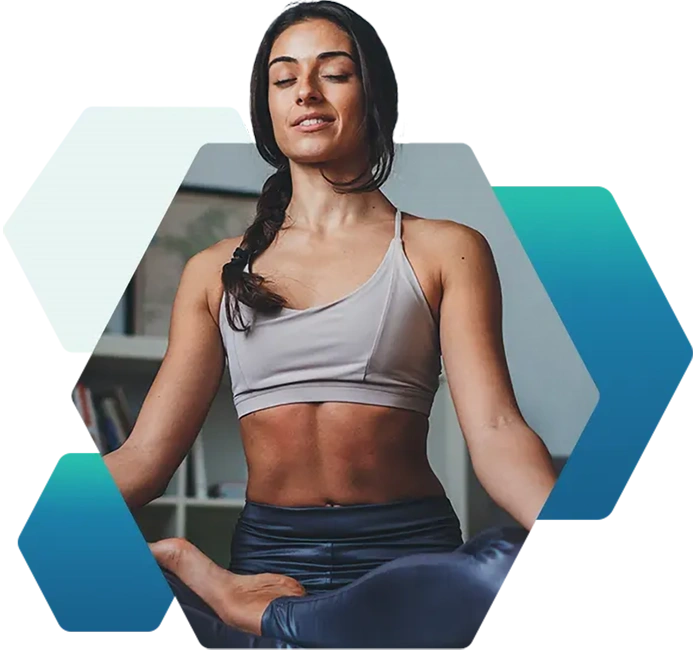
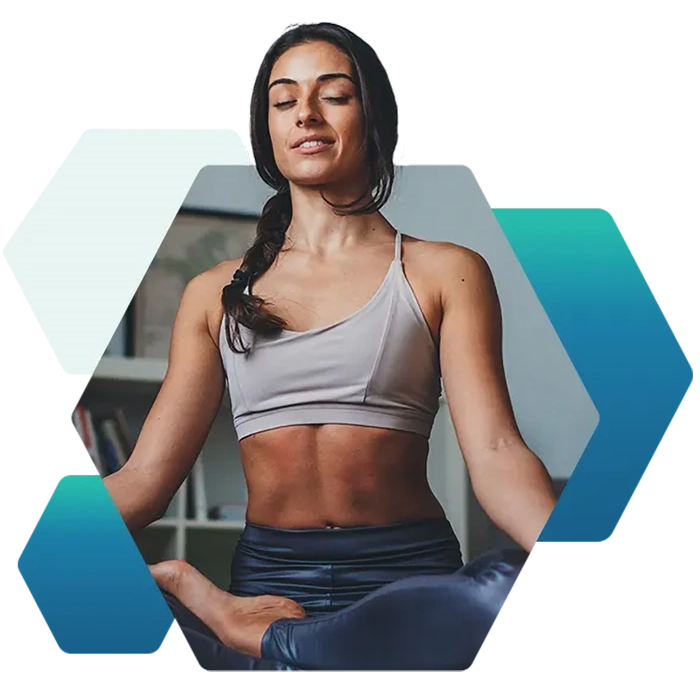
Create AlternatingSwitchbacks and add to index

diff --git a/src/components/AlternatingSwitchbacks/AlternatingSwitchbacks.tsx b/src/components/AlternatingSwitchbacks/AlternatingSwitchbacks.tsx
@@ -1,0 +1,83 @@
+import { WorksType } from 'data/data';
+import { FC } from 'react';
+
+// Quarks
+import Container from 'quarks/Container';
+import Flex from 'quarks/Flex';
+import Heading from 'quarks/Heading';
+import Image from 'quarks/Image';
+import Link from 'quarks/Link';
+import { BasicProps } from 'quarks/interpolations/basic';
+
+import useDarkMode from 'contexts/ThemeProvider';
+
+type AlternatingSwitchbacksProps = BasicProps & {
+  works: WorksType;
+};
+
+const AlternatingSwitchbacks: FC<AlternatingSwitchbacksProps> = ({ works, ...props }) => {
+  const [isDarkMode] = useDarkMode();
+
+  return (
+    <Flex flexDirection="column" gap="64px" {...props}>
+      {works.map((work, i) => {
+        const isEven = i % 2 === 0;
+
+        return (
+          <Link href={work.url} key={work.id}>
+            <Flex
+              justifyContent="flex-end"
+              alignItems="center"
+              flexDirection={isEven ? 'row-reverse' : 'row'}
+              position="relative"
+              cursor="pointer"
+              className="switchback"
+              css={`
+                :hover h4 {
+                  ${!isEven ? 'right: 30%' : 'left: 30%'};
+                  transform: scale(1.2);
+                }
+                :hover .image-wrapper {
+                  transform: rotate(${isEven ? '5deg' : '-5deg'});
+                }
+              `}
+            >
+              <Heading
+                as="h4"
+                textAlign="center"
+                textStyle="lg"
+                position="absolute"
+                left={isEven ? '20%' : '0'}
+                right={isEven ? '0' : '20%'}
+                transition="all 1s ease"
+                zIndex={2}
+                textShadow={isDarkMode ? '5px 5px 10px #110e2d' : undefined}
+                lg={{ textStyle: 'xxl' }}
+                after={{
+                  content: '',
+                  position: 'absolute',
+                  top: '150%',
+                  height: '5px',
+                  backgroundColor: 'purple-500',
+                  left: isEven ? '15%' : 0,
+                  right: isEven ? 0 : '15%',
+                  marginX: 'auto',
+                  width: '30%',
+                }}
+              >
+                {work.title}
+              </Heading>
+              <Container width="50%" className="image-wrapper" transition="all 1s ease">
+                <Image src={work.bannerImage.src} height={650} width={650} alt={work.bannerImage.alt} />
+              </Container>
+            </Flex>
+          </Link>
+        );
+      })}
+    </Flex>
+  );
+};
+
+export default AlternatingSwitchbacks;
+
+AlternatingSwitchbacks.defaultProps = {};

diff --git a/src/data/data.tsx b/src/data/data.tsx
@@ -44,11 +44,12 @@ export const works = [
   {
     id: 'bettermind',
     title: 'Better Mind',
+    url: 'https://www.justinwallace.dev/works/bettermind',
     subTitle: 'Counseling Collective',
     bannerImage: {
-      src: '/images/bettermind-1.webp',
+      src: '/images/bettermind/bettermind-1.webp',
       alt: 'Woman sitting in the lotus position',
-      height: 600,
+      height: 650,
       width: 650,
     },
     techStack: ['next', 'react', 'javascript', 'css'],
@@ -73,9 +74,9 @@ export const works = [
     ],
     gallery: [
       {
-        url: '/images/bettermind/bettermind-1.webp',
-        height: 650,
-        width: 700,
+        url: '/images/bettermind/bettermind-5.png',
+        height: 1204,
+        width: 1382,
       },
       {
         url: '/images/bettermind/bettermind-2.webp',
@@ -93,9 +94,10 @@ export const works = [
         width: 731,
       },
       {
-        url: '/images/bettermind/bettermind-5.png',
-        height: 1204,
-        width: 1382,
+        url: '/images/bettermind/bettermind-1.webp',
+
+        height: 700,
+        width: 700,
       },
       {
         url: '/images/bettermind/bettermind-6.png',
@@ -107,5 +109,14 @@ export const works = [
   {
     id: 'skilljumper',
     title: 'Skill Jumper',
+    url: 'https://www.justinwallace.dev/works/skilljumper',
+    bannerImage: {
+      src: '/images/skilljumper/skilljumper-1.webp',
+      alt: 'Justin Wallace as a cartoon jumping up some skill blocks',
+      height: 650,
+      width: 650,
+    },
   },
 ];
+
+export type WorksType = typeof works;

diff --git a/src/pages/index.tsx b/src/pages/index.tsx
@@ -1,26 +1,21 @@
+import { works } from 'data/data';
+
 // Assets
 import dots from 'assets/images/dots.webp';
 
 // Quarks
 import Container from 'quarks/Container';
 import { LargeCircle, SmallCircle } from 'quarks/DesignElements';
+import Heading from 'quarks/Heading';
 import Image from 'quarks/Image';
 
 // Components
+import AlternatingSwitchbacks from 'components/AlternatingSwitchbacks/AlternatingSwitchbacks';
 import Hero from 'components/Hero/Hero';
 
 const index = () => (
-  <>
-    <Container
-      as="main"
-      height="calc(90vh - 70px)"
-      contain="layout"
-      position="relative"
-      maxWidth="1440px"
-      marginX="auto"
-      paddingX={16}
-      lg={{ paddingX: 32 }}
-    >
+  <Container as="main" maxWidth="1440px" marginX="auto" paddingX={16} lg={{ paddingX: 32 }}>
+    <Container as="section" height="90vh" contain="layout" position="relative">
       <LargeCircle position="absolute" right="40%" bottom="50%" zIndex={-1} lg={{ right: '50%' }} />
       <Image
         src={dots}
@@ -36,6 +31,10 @@ const index = () => (
       <SmallCircle position="absolute" left="80%" top="10%" zIndex={-1} lg={{ left: '75%' }} />
       <Hero position="absolute" top="5%" left="2%" lg={{ top: '40%' }} />
     </Container>
-  </>
+    <Heading as="h3" textStyle="md" marginBottom={64} textAlign="center" lg={{ textStyle: 'lg' }}>
+      works
+    </Heading>
+    <AlternatingSwitchbacks works={works} />
+  </Container>
 );
 export default index;

diff --git a/src/quarks/styleProps/heading.ts b/src/quarks/styleProps/heading.ts
@@ -1,5 +1,6 @@
 import { css } from 'styled-components';
 
+import { GradientStyles, gradient } from 'atoms/colors/colors';
 import { font } from 'atoms/typography/typography';
 
 import typography from 'theme/typography';
@@ -26,6 +27,11 @@ const headingCSS = {
     line-height: ${typography.typography[value].lineHeight};
     letter-spacing: ${typography.typography[value].letterSpacing};
     font-weight: ${typography.typography[value].fontWeight};
+  `,
+  gradient: (value: GradientStyles) => css`
+    background: ${gradient[value]};
+    -webkit-background-clip: text;
+    -webkit-text-fill-color: transparent;
   `,
 };
 

diff --git a/src/components/AlternatingSwitchbacks/storybook/AlternatingSwitchbacks.stories.tsx b/src/components/AlternatingSwitchbacks/storybook/AlternatingSwitchbacks.stories.tsx
@@ -1,0 +1,13 @@
+import { ComponentStory } from '@storybook/react';
+
+import AlternatingSwitchbacks from '../AlternatingSwitchbacks';
+
+const Template: ComponentStory<typeof AlternatingSwitchbacks> = args => <AlternatingSwitchbacks {...args} />;
+
+export const AlternatingSwitchbacksStory = Template.bind({});
+AlternatingSwitchbacksStory.parameters = {
+  controls: {
+    include: [],
+  },
+};
+AlternatingSwitchbacksStory.args = {};

diff --git a/src/pages/_document.tsx b/src/pages/_document.tsx
@@ -11,7 +11,6 @@ class MyDocument extends Document {
             href="https://fonts.googleapis.com/css2?family=Darker+Grotesque:wght@300;400;600;700;900&family=IBM+Plex+Sans:wght@200;300;400;600;700&display=swap"
             rel="stylesheet"
           />
-          <meta name="viewport" content="width=device-width, initial-scale=1.0" />
         </Head>
         <body>
           <Main />

diff --git a/src/quarks/styleProps/text.ts b/src/quarks/styleProps/text.ts
@@ -1,10 +1,9 @@
 import { css } from 'styled-components';
 
-import { gradient } from 'atoms/colors/colors';
+import { GradientStyles, gradient } from 'atoms/colors/colors';
 import { font } from 'atoms/typography/typography';
 
 type TextStyles = keyof typeof font.text;
-type GradientStyles = keyof typeof gradient;
 
 const textCSS = {
   /**

diff --git a/src/atoms/typography/typography.ts b/src/atoms/typography/typography.ts
@@ -120,7 +120,7 @@ export const font = {
     md: {
       fontFamily: secondaryFont,
       fontSize: fontSize[36],
-      lineHeight: lineHeight[38],
+      lineHeight: lineHeight[32],
       fontWeight: fontWeight.black,
       letterSpacing: letterSpacing.neg4,
       font() {

diff --git a/src/atoms/colors/colors.ts b/src/atoms/colors/colors.ts
@@ -62,6 +62,8 @@ export const gradient = {
   purpleBottom: 'linear-gradient(180deg, rgba(0,113,115,1) 0%, rgba(64,54,122,1) 100%)',
 } as const;
 
+export type GradientStyles = keyof typeof gradient;
+
 export type ColorObject = typeof color;
 
 type GetColorOptions<T> = {

diff --git a/src/quarks/Link.tsx b/src/quarks/Link.tsx
@@ -6,7 +6,6 @@ import { BasicProps, basic } from 'quarks/interpolations/basic';
 import parseUrl from 'utils/parseUrl';
 
 const StyledLink = styled.a`
-  cursor: pointer;
   ${basic}
 `;
 
